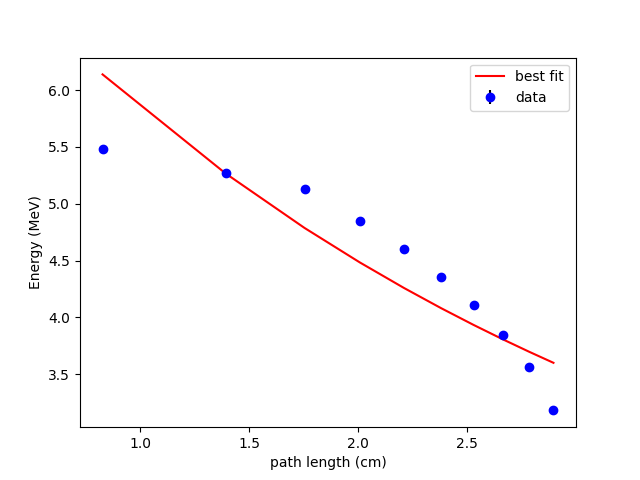
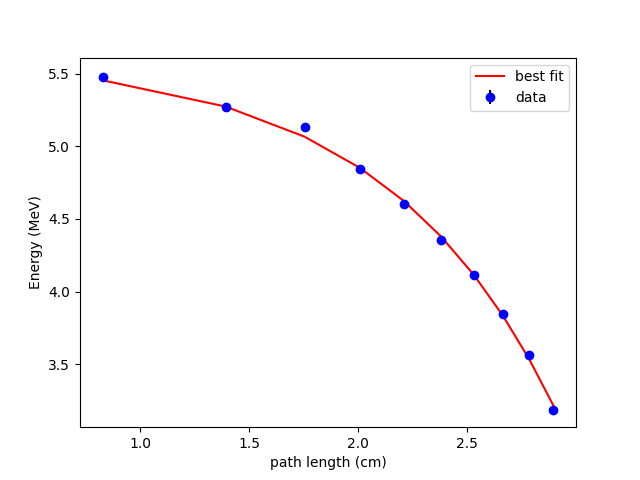
changed exponential decay function

diff --git a/src/alpha/alpha_ray.py b/src/alpha/alpha_ray.py
@@ -124,13 +124,13 @@ class Measurement:
     @classmethod
     def energy_fit(cls):
 
-        def exp_decay(x, a, b):
-            energy = a * b**x
+        def exp_decay(x, a, b, c):
+            energy = 1 - a * b**(-x) + c
             return energy
         
         energy_weight = [1/energy_err for energy_err in cls.energy_error]
         cls.model_energy = models.Model(exp_decay, nan_policy='propagate')
-        cls.result_energy = cls.model_energy.fit(cls.energy, x=cls.path_length_list, weights=energy_weight, a=0.1, b=0.2)
+        cls.result_energy = cls.model_energy.fit(cls.energy, x=cls.path_length_list, weights=energy_weight, a=0.1, b=0.2, c=1)
         print(cls.result_energy.fit_report())
 
 
